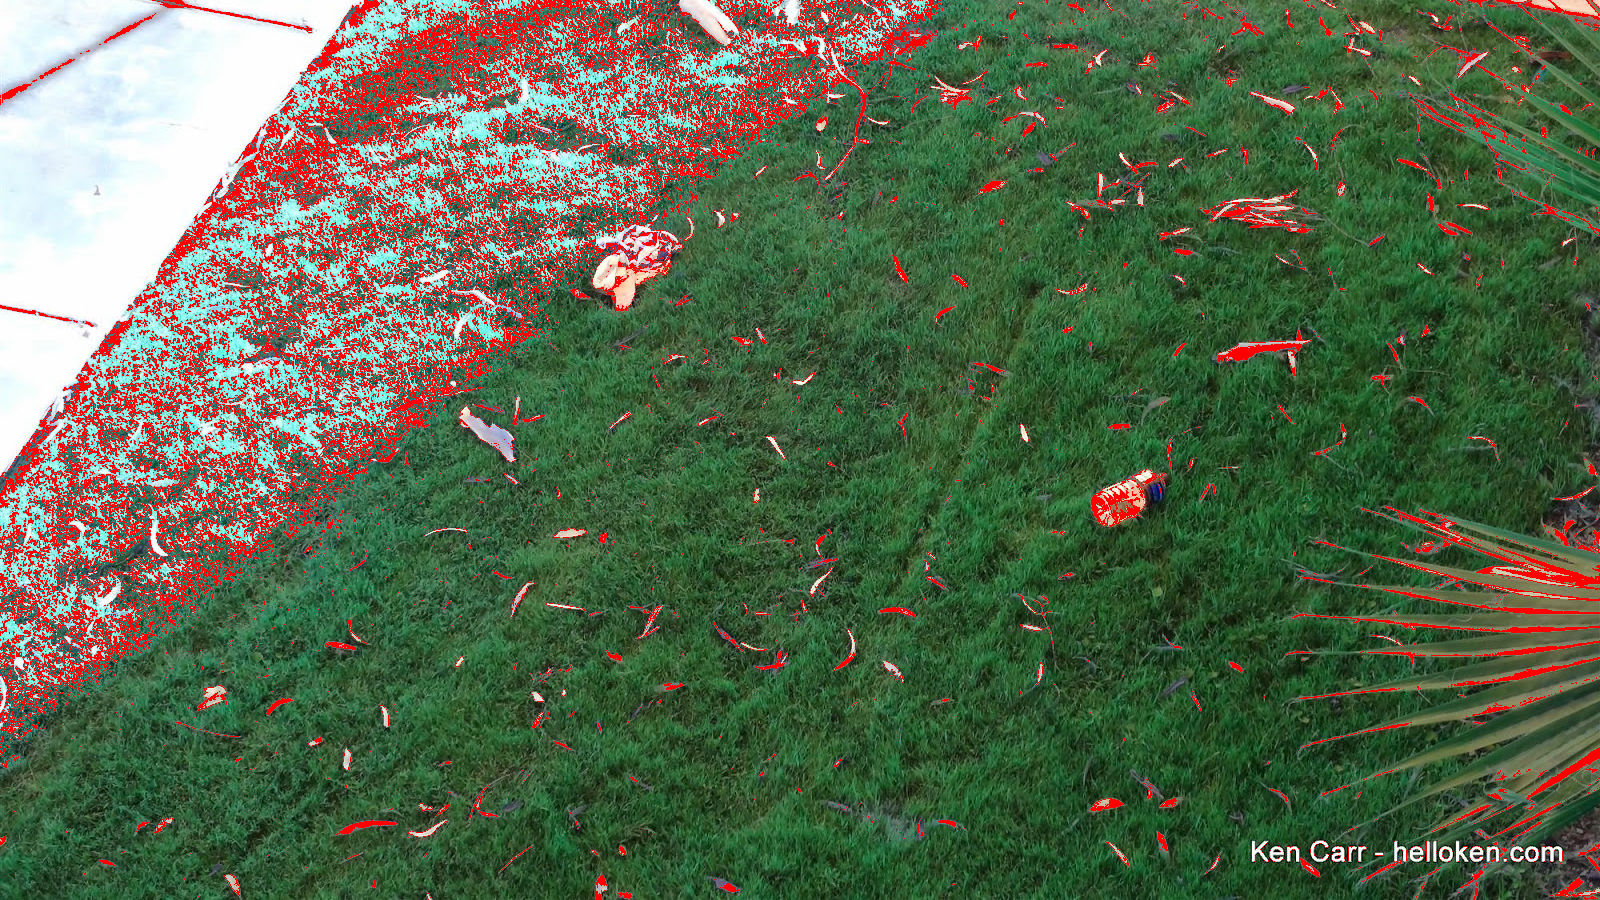
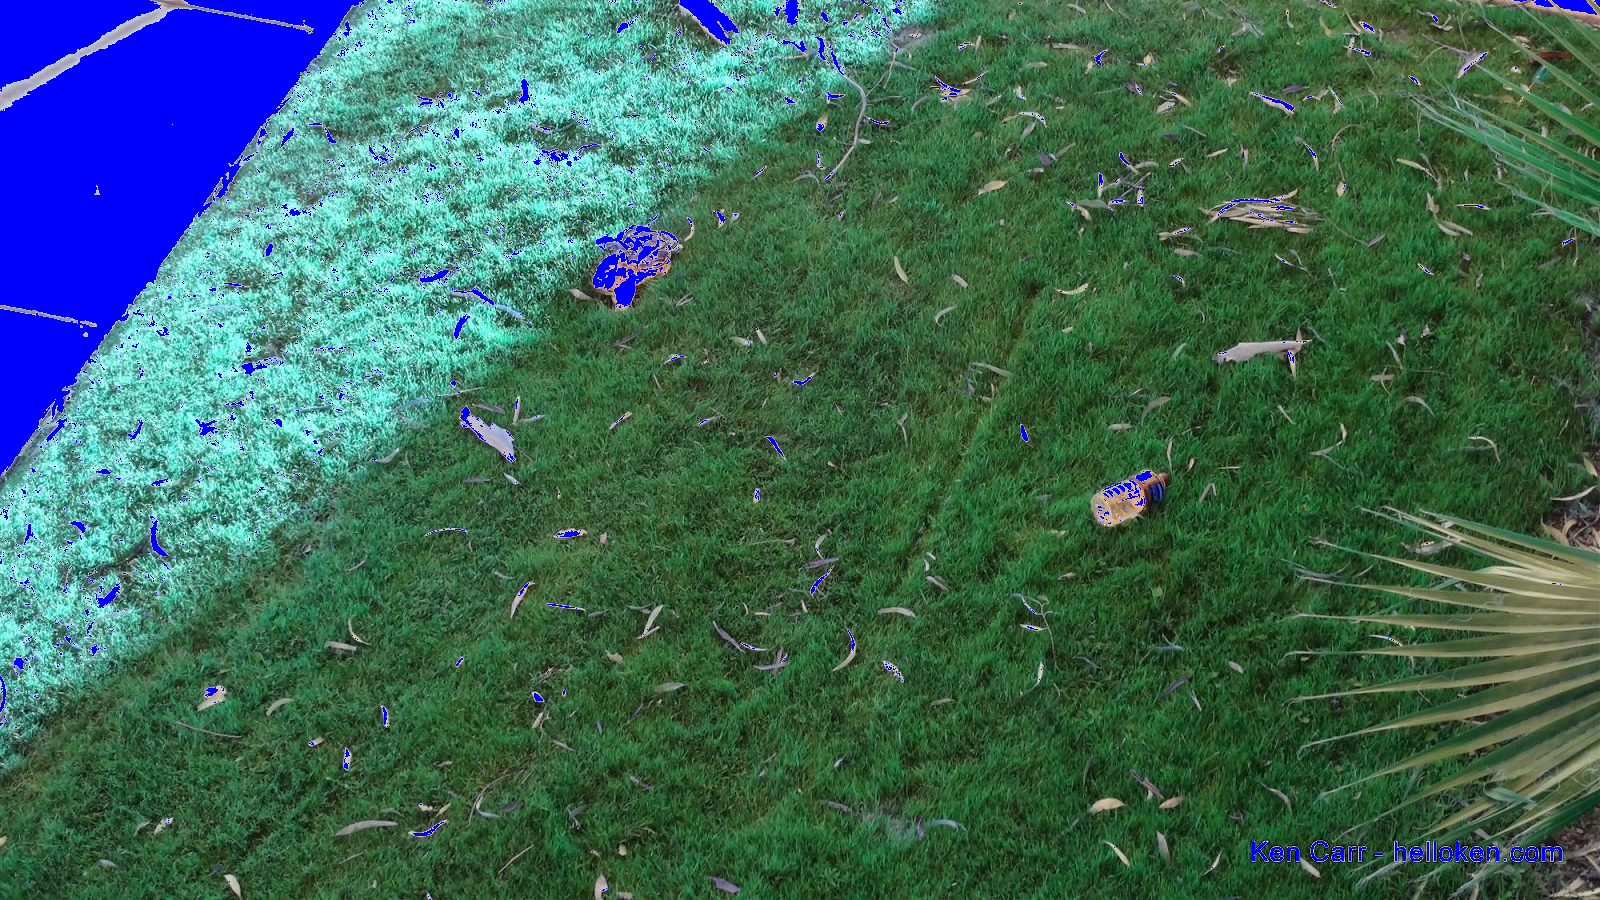
slight modification

diff --git a/KMeans.py b/KMeans.py
@@ -20,7 +20,6 @@ class KMeans():
 
 	def getCentroids(self):
 		""" Returns position of the centroids
-		:return self.centroids: Centroids
 		"""
 		return self.centroids
 
@@ -28,13 +27,11 @@ class KMeans():
 		""" Returns clusters with shape (1, Npts).
 			E.g. a data point X[i] belongs to
 			cluster self.clusters[i].
-		:return self.clusters: clusters
 		"""
 		return self.clusters
 
 	def vizualize(self,name):
 		""" Plot data points and final position of centroids.
-			This function need to be called after training.
 		"""
 		plt.style.use("ggplot")
 		plt.scatter(self.X[:,0], self.X[:,1], color = '#333333')
@@ -51,10 +48,6 @@ class KMeans():
 	def fit(self, X, init_state = None, max_iter = 50):
 		""" Train the K-Mean model, finds ultimate positions
 		for centroids and create clusters.
-		:param X: Data matrix with shape (Npts, Ndim)
-		:param init_state: Initial state for centroids. If nothing is given,
-		the model will generate random positions.
-		:param max_iter: Maximum number of iterations
 		"""
 		_, Ndim = X.shape
 		self.X = X
@@ -79,8 +72,6 @@ class KMeans():
 
 	def predict(self, X):
 		""" Predicts clusters for data points.
-		:param X: Data point-s with shape (Npts, Ndim)
-		:return: predicted clusters
 		"""
 		diff = cdist(X, self.centroids, metric="euclidean")
 		return np.argmin(diff, axis=1)

diff --git a/k_means_obj.py b/k_means_obj.py
@@ -2,8 +2,8 @@ from os import makedirs
 import numpy as np
 import matplotlib.pyplot as plt
 import cv2
-
-BLUE = (0,0,255)
+from KMeans import KMeans
+BLUE = (255,0,0)
 RED = (255,0,0)
 
 image = cv2.imread("./Images/trash.jpg")
@@ -19,12 +19,19 @@ criteria = (cv2.TERM_CRITERIA_EPS + cv2.TERM_CRITERIA_MAX_ITER, 100, 0.2)
 
 k = 6
 
+km=KMeans(n_clus=k)
+km.fit(pixel_vals)
+clusters=km.getClusters()
+centroids=km.getCentroids()
+# clusters=clusters[::-1]
+centroids=np.uint8(centroids)
 
 retval, labels, centers = cv2.kmeans(pixel_vals, k, None, criteria, 10, cv2.KMEANS_RANDOM_CENTERS)
-
-centers = np.uint8(centers)
-segmented_data = centers[labels.flatten()]
-
+print(labels.flatten())
+print(clusters)
+# centers = np.uint8(centers)
+# segmented_data = centers[labels.flatten()]
+segmented_data=centroids[clusters]
 segmented_image = segmented_data.reshape((image.shape))
 labels_reshape = labels.reshape(image.shape[0], image.shape[1])
 

diff --git a/Otsu_Threshold.py b/Otsu_Threshold.py
@@ -52,7 +52,7 @@ def calculateAll(blackList, whiteList):
     return separationMetrics
 
 def main():
-    image_path = "./m_r.jpg"                            
+    image_path = "./Images/m_r.jpg"                            
     image = cv2.imread(image_path, 0)                      
 
     
